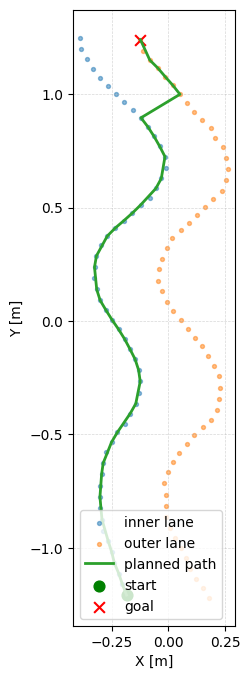
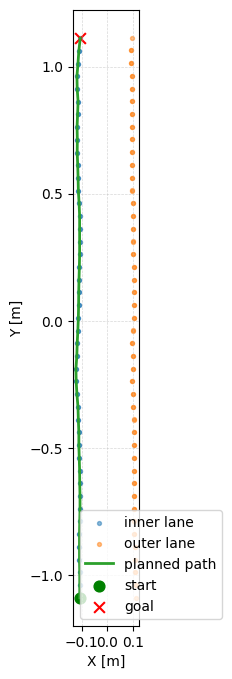
ㅗ

diff --git a/src/asw/lib/adas_localization_lib.rs b/src/asw/lib/adas_localization_lib.rs
@@ -164,7 +164,7 @@ pub fn process_imu_sample(
     ];
 
     let map_position = [
-        start_coord.x as f64 - displacement[0],
+        start_coord.x as f64 + displacement[0],
         start_coord.y as f64 - displacement[2],
     ];
 
